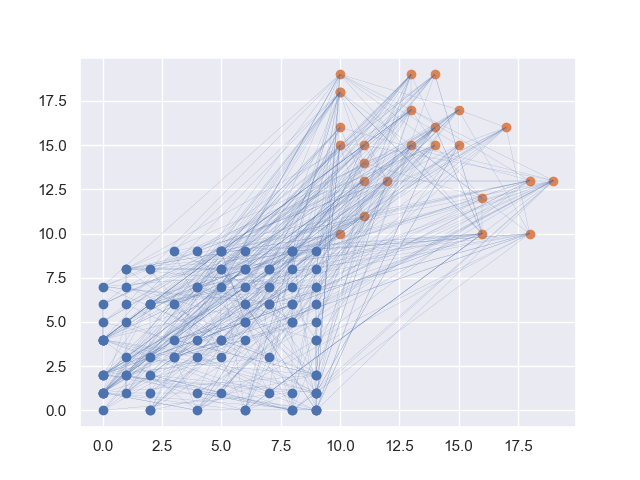
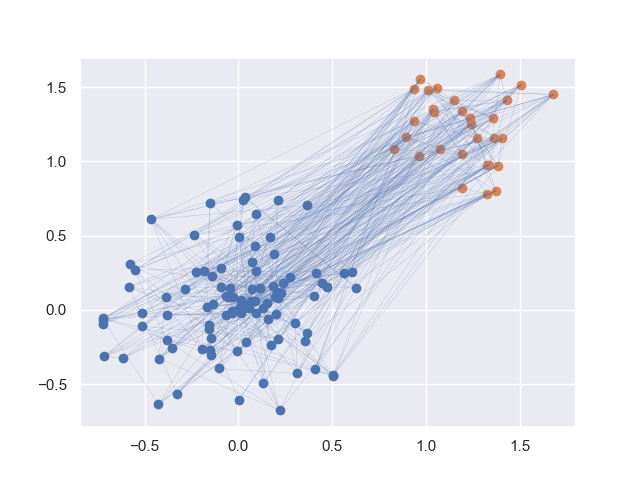
yoyoyo

diff --git a/snn.py b/snn.py
@@ -29,6 +29,22 @@ def get_conn_pairs(conn_ij):
     return connection_pairs
 
 
+def get_circular_positions(n_neurons, R=1, center=(0,0)):
+
+    # need key word arguments R (max radius)
+    r = np.random.uniform(low=-R, high=R, size=n_neurons)
+    theta = np.random.uniform(low=0, high=2*np.pi, size=n_neurons)
+
+    positions = np.zeros(shape=(n_neurons, 2))
+    positions[:,0] = r*np.cos(theta)
+    positions[:,1] = r*np.sin(theta)
+
+    # addind center position:
+    positions += center
+
+    return positions
+
+
 
 class SNN:
 
@@ -107,8 +123,13 @@ class SNN:
     
         #-----------------------------------------------
         # Random generating positions:
-        positions_excitatory = np.random.randint(low=0, high=10, size=(self.n_excitatory, 2))
-        positions_inhibitory = np.random.randint(low=10, high=20, size=(self.n_inhibitory, 2))
+        positions_e = get_circular_positions(n_neurons=self.n_excitatory, R=0.8, center=(0,0))
+        positions_i = get_circular_positions(n_neurons=self.n_inhibitory, R=0.5, center=(1.25,1.25))
+        #positions_excitatory = np.random.randint(low=0, high=10, size=(self.n_excitatory, 2))
+        #positions_inhibitory = np.random.randint(low=10, high=20, size=(self.n_inhibitory, 2))
+        #positions_excitatory = np.random.normal(size=(self.n_excitatory, 2)) * spread_e + mean_e
+        #positions_inhibitory = np.random.normal(size=(self.n_inhibitory, 2)) * spread_i + mean_i
+
         # The relationship between neuron GID and position is: 
             # For excitatory:
                 # position index = GID - 1
@@ -128,14 +149,12 @@ class SNN:
 
         #-----------------------------------------------
         # Plotting neurons:
-        ax.scatter(positions_excitatory[:,0], positions_excitatory[:,1], label='Excitatory')
-        ax.scatter(positions_inhibitory[:,0], positions_inhibitory[:,1], label='Inhibitory')
+        ax.scatter(positions_e[:,0], positions_e[:,1], label='Excitatory')
+        ax.scatter(positions_i[:,0], positions_i[:,1], label='Inhibitory')
 
-        # Plotting connections:
+        # Plotting connection lines:
         conn_lines = dict()
         for key in conn_pairs:
-            print(key)
-            print('---------------------------------------------------------')
             sender_type = key[-2]
             receiver_type = key[-1]
             
@@ -148,20 +167,19 @@ class SNN:
 
                 if sender_type=='e':
                     source_pos_index = pair[0]-1
-                    source_pos = positions_excitatory[source_pos_index]
+                    source_pos = positions_e[source_pos_index]
 
                 elif sender_type=='i':
                     source_pos_index = pair[0]-1-self.n_excitatory
-                    source_pos = positions_inhibitory[source_pos_index]
+                    source_pos = positions_i[source_pos_index]
 
                 if receiver_type=='e':
                     receiver_pos_index = pair[1]-1
-                    receiver_pos = positions_excitatory[receiver_pos_index]
+                    receiver_pos = positions_e[receiver_pos_index]
 
                 elif receiver_type=='i':
                     receiver_pos_index = pair[1]-1-self.n_excitatory
-                    print(receiver_pos_index)
-                    receiver_pos = positions_inhibitory[receiver_pos_index]
+                    receiver_pos = positions_i[receiver_pos_index]
 
                 lines[i, 0] = source_pos 
                 lines[i, 1] = receiver_pos
@@ -186,7 +204,7 @@ class SNN:
 
 def test():
 
-    snn = SNN()
+    snn = SNN(n_excitatory=100, n_inhibitory=30)
     snn.plot_connectome()
 
 
